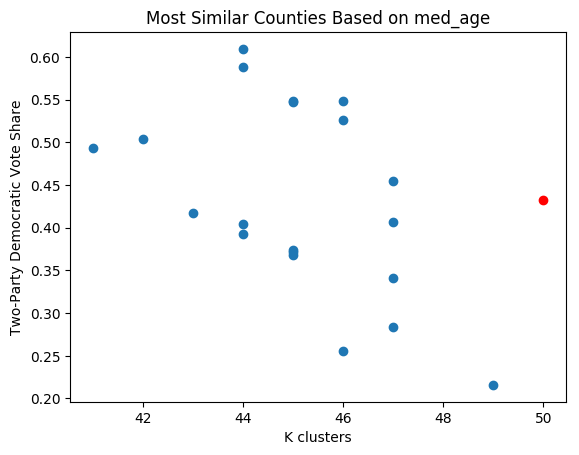
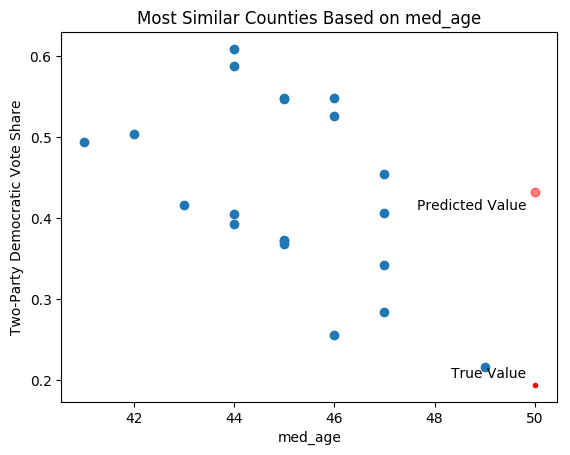
label graphics

diff --git a/python/predict_kernel.py b/python/predict_kernel.py
@@ -259,8 +259,14 @@ def display_NN(features, K, county_FIPS):
     trimmed_X = np.asarray(trimmed_X)
     Y = np.asarray(Y)
 
+    X_16, Y_16 = prep_data(full_eval, features=features[:-1])
+    county_index = X_16.index(main_county)
+
     KNN_obs = trimmed_X[neighbors[0]]
     KNN_votes = Y[neighbors[0]]
+
+    true_vote_share = Y_16[county_index]
+
     KNN_predicted = classifier.predict([main_county])
     print(KNN_predicted)
     for i in range(len(features) - 1):
@@ -268,7 +274,21 @@ def display_NN(features, K, county_FIPS):
         feature = KNN_obs[:, i]
 
         plt.plot(feature, KNN_votes, 'o')
-        plt.plot(main_county[i], KNN_predicted, 'o', color='r')
+        plt.plot(main_county[i], KNN_predicted, 'o', color='r', alpha=.5)
+
+        x_offset = (5 - 90 * (np.mean(feature) < main_county[i]))
+        y_offset = (5 - 18 * (np.mean(KNN_votes) < KNN_predicted))
+
+        plt.annotate('Predicted Value', (main_county[i], KNN_predicted), xytext=(
+            x_offset, y_offset), textcoords='offset points')
+
+        plt.plot(main_county[i], true_vote_share, '.', color='r')
+
+        x_offset = (5 - 65 * (np.mean(feature) < main_county[i]))
+        y_offset = (5 - 18 * (np.mean(KNN_votes) < true_vote_share))
+
+        plt.annotate('True Value', (main_county[i], true_vote_share), xytext=(
+            x_offset, y_offset), textcoords='offset points')
 
         plt.title(F'Most Similar Counties Based on {ft_name}')
         plt.ylabel('Two-Party Democratic Vote Share')
